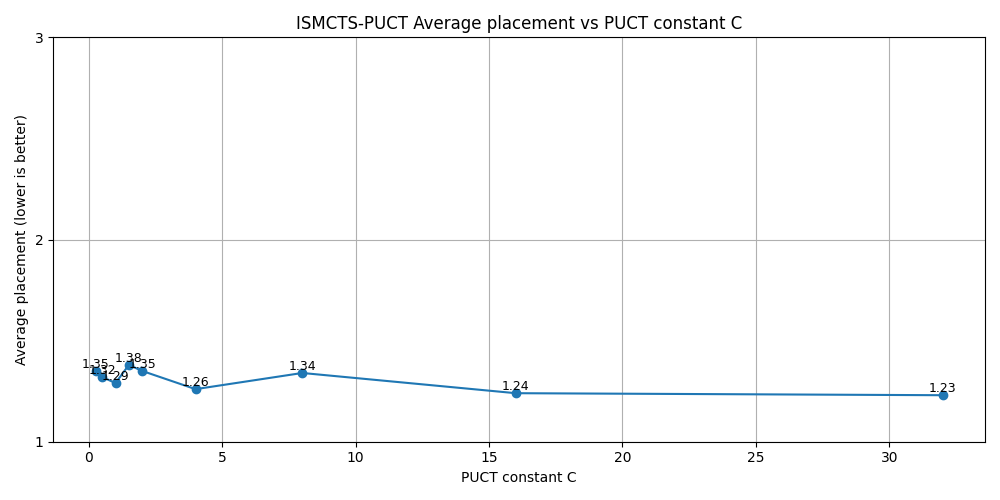
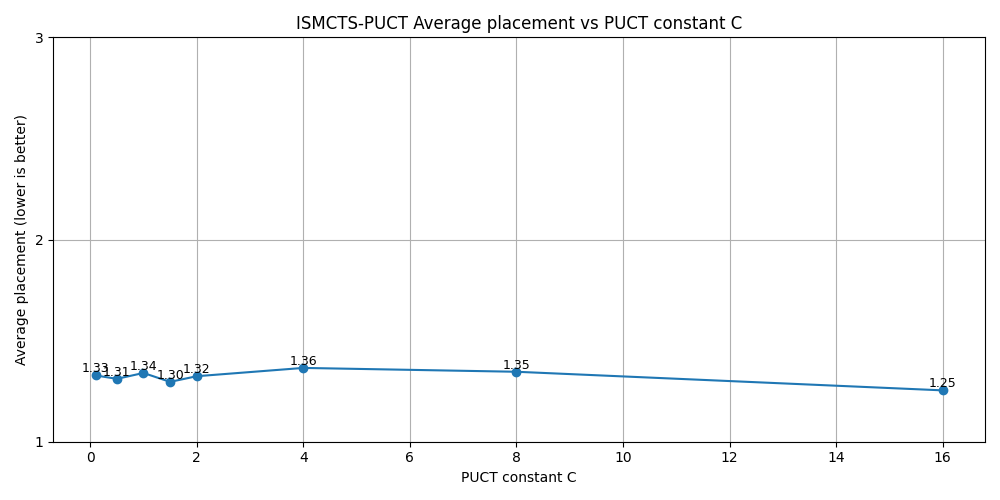
Continue experiments

diff --git a/sweep_puct/prior_tau/sweep_tau_puct.py b/sweep_puct/prior_tau/sweep_tau_puct.py
@@ -22,7 +22,7 @@ def run_single_game(args):
     rng = random.Random()
 
     agent_specs = [
-        (agent_paths[0], {"puct_c": value}),   # ISMCTS tuned
+        (agent_paths[0], {"prior_tau": value}),   # ISMCTS tuned
         (agent_paths[1], {}),                  # Heuristic
         (agent_paths[2], {}),                  # Random
     ]
@@ -81,7 +81,7 @@ def run_c_sweep_parallel(
     results = []
 
     for v in values:
-        print(f"\n=== Running sweep for puct_c = {v} ({num_games} games) ===")
+        print(f"\n=== Running sweep for prior_tau = {v} ({num_games} games) ===")
 
         args_list = [(agent_paths, v, dice_per_player) for _ in range(num_games)]
 
@@ -118,8 +118,8 @@ def run_c_sweep_parallel(
     plt.figure(figsize=(10, 5))
     plt.plot(df["value"], df["avg"], marker="o")
 
-    plt.title("ISMCTS-PUCT Average placement vs PUCT constant C")
-    plt.xlabel("PUCT constant C")
+    plt.title("ISMCTS-PUCT Average placement vs Prior constant tau")
+    plt.xlabel("Prior constant tau")
     plt.ylabel("Average placement (lower is better)")
     plt.ylim(1, 3)
     plt.yticks([1, 2, 3])
@@ -148,7 +148,7 @@ if __name__ == "__main__":
     parser.add_argument("--games", type=int, default=1000)
     args = parser.parse_args()
 
-    VALUES = [0.1, 0.5, 1.0, 1.5, 2.0, 4.0, 8.0, 16.0]
+    VALUES = [0.5, 1.0, 1.5, 2.0, 3.0, 5.0]
 
     run_c_sweep_parallel(
         values=VALUES,

diff --git a/liars_dice/agents/ismcts_2_puct.py b/liars_dice/agents/ismcts_2_puct.py
@@ -41,9 +41,9 @@ class ISMCTSPUCTAgent:
     def __init__(
         self,
         label: str = "ISMCTS-PUCT",
-        sims_per_move: int = 500,
+        sims_per_move: int = 1000,
         seed: Optional[int] = None,
-        puct_c: float = 0.5,
+        puct_c: float = 1.5,
         prior_tau: float = 1.5,  # soften S(q,f) -> prior; <1 sharp, >1 flat
         liar_exp: float = 1.25,  # prior_liar ~ (1 - S(last_bid)) ** liar_exp
         prior_floor: float = 1e-6,  # tiny floor so priors never zero
